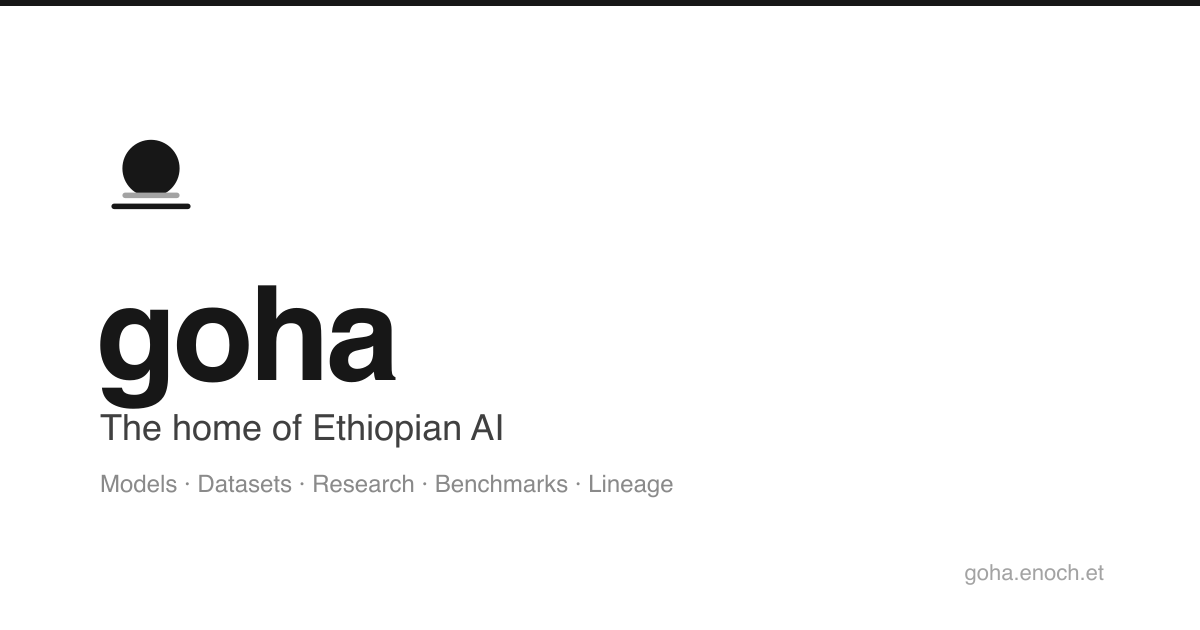
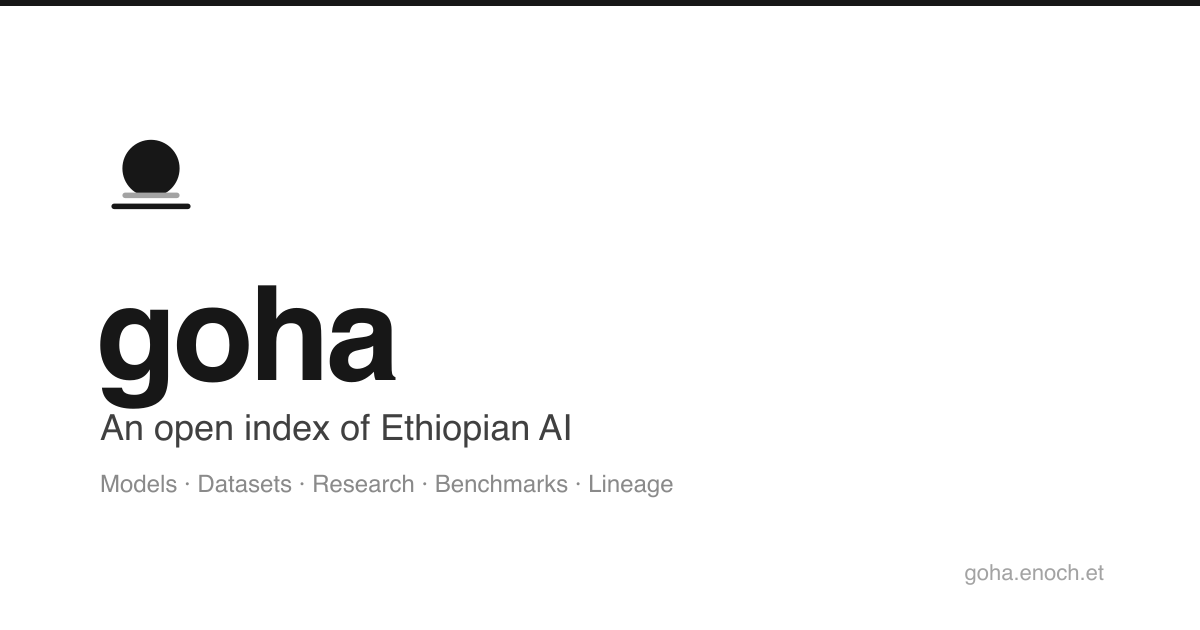
Rename hero tagline from 'The home of Ethiopian AI' to 'An open index of Ethiopian AI'

Changed region(s): [[0.0617, 0.6333, 0.4933, 0.7238]]

diff --git a/src/app/layout.tsx b/src/app/layout.tsx
@@ -34,7 +34,7 @@ const metadataImageUrl = `${FRONTEND_URL}/og.png`;
 export const metadata: Metadata = {
   metadataBase: new URL(FRONTEND_URL),
   title: {
-    default: "goha — The home of Ethiopian AI",
+    default: "goha — An open index of Ethiopian AI",
     template: "%s | goha",
   },
   description:
@@ -60,7 +60,7 @@ export const metadata: Metadata = {
   },
   category: "technology",
   openGraph: {
-    title: "goha — The home of Ethiopian AI",
+    title: "goha — An open index of Ethiopian AI",
     description:
       "Find models, datasets, companies, and research papers for Ethiopian languages.",
     images: [
@@ -78,7 +78,7 @@ export const metadata: Metadata = {
   },
   twitter: {
     card: "summary_large_image",
-    title: "goha — The home of Ethiopian AI",
+    title: "goha — An open index of Ethiopian AI",
     creator: "@HenaTeke",
     images: [metadataImageUrl],
     description:

diff --git a/src/features/projects/views/homepage-dashboard.view.tsx b/src/features/projects/views/homepage-dashboard.view.tsx
@@ -55,8 +55,8 @@ export default function HomepageDashboard({
               </Button>
               <ShareButton
                 path="/"
-                title="goha — The home of Ethiopian AI"
-                text="The home of Ethiopian AI — models, datasets and research in one open index."
+                title="goha — An open index of Ethiopian AI"
+                text="An open index of Ethiopian AI — models, datasets and research in one place."
                 label="Share"
               />
             </div>

diff --git a/src/app/orgs/[orgSlug]/page.tsx b/src/app/orgs/[orgSlug]/page.tsx
@@ -37,7 +37,7 @@ export async function generateMetadata({ params }: Props): Promise<Metadata> {
     openGraph: {
       title: `${org.name} — Ethiopian AI organization`,
       description:
-        org.desc ?? `${org.name} on goha — the home of Ethiopian AI.`,
+        org.desc ?? `${org.name} on goha — an open index of Ethiopian AI.`,
       url: orgUrl,
       type: "profile",
       siteName: "goha",

diff --git a/src/app/about/page.tsx b/src/app/about/page.tsx
@@ -5,7 +5,7 @@ import { asset } from "@/shared/lib/asset";
 import { pageMetadata } from "@/shared/lib/page-metadata";
 
 export const metadata: Metadata = pageMetadata({
-  title: "About — the home of Ethiopian AI",
+  title: "About — an open index of Ethiopian AI",
   description:
     "Why goha exists, how the index is built, what it covers and what it deliberately does not do.",
   path: "/about",

diff --git a/src/app/terms-and-conditions/page.tsx b/src/app/terms-and-conditions/page.tsx
@@ -4,7 +4,7 @@ import { pageMetadata } from "@/shared/lib/page-metadata";
 export const metadata: Metadata = pageMetadata({
   title: "Terms and Conditions",
   description:
-    "The terms that govern your use of goha — the home of the Ethiopian AI ecosystem.",
+    "The terms that govern your use of goha — an open index of the Ethiopian AI ecosystem.",
   path: "/terms-and-conditions",
 });
 

diff --git a/src/features/projects/components/discovery-hero-intro.component.tsx b/src/features/projects/components/discovery-hero-intro.component.tsx
@@ -54,7 +54,7 @@ export function DiscoveryHeroIntro({
             animationDuration: DURATION,
           }}
         >
-          The home of
+          An open index of
         </span>
         <span
           className="hero-reveal block"

diff --git a/README.md b/README.md
@@ -1,4 +1,4 @@
-# goha — The Home of Ethiopian AI
+# goha — An Open Index of Ethiopian AI
 
 **Live at [goha.enoch.et](https://goha.enoch.et)**
 
